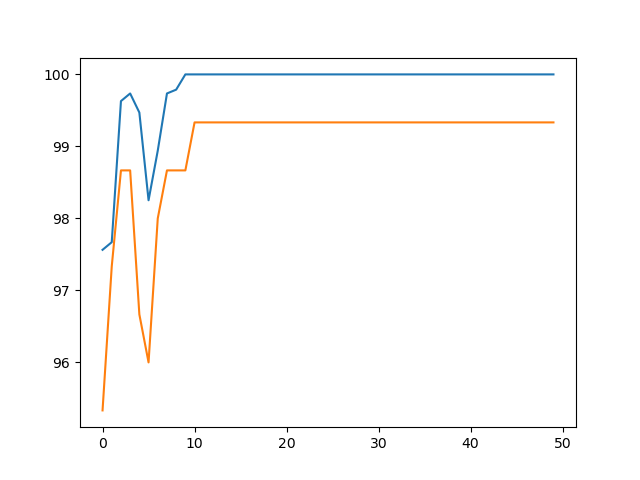
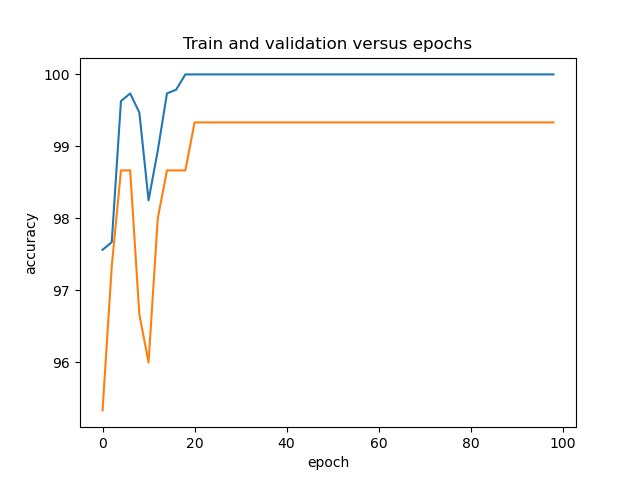
Final edi

diff --git a/best_ksvm_and_mlp_for_each_low_level_feature.py b/best_ksvm_and_mlp_for_each_low_level_feature.py
@@ -11,7 +11,7 @@ cols = details.columns.tolist() + a.columns.tolist()
 df = pd.concat([details,a], ignore_index=True, axis=1)
 df.columns = cols
 
-m = df.groupby(by="function", axis=0).max("validation")
+m = df.iloc[df.groupby(by="function", axis=0)["validation"].idxmax(),:]
 m.to_excel("results/best_ksvm_for_each_category.xlsx")
 
 ## GET BEST MODEL FOR EACH LOW LEVEL FEATURE MLP
@@ -24,5 +24,5 @@ df.columns = cols
 df = df[df["epochs"] != 10000]
 # print(df[""].unique())
 
-m = df.groupby(by="feature_func", axis=0).max()
+m = df.iloc[df.groupby(by="feature_func", axis=0)["validation"].idxmax(),:]
 m.to_excel("results/best_mlp_for_each_category.xlsx")

diff --git a/best_model_train_and_valid_curve.py b/best_model_train_and_valid_curve.py
@@ -13,8 +13,11 @@ nsample = int(json["nsample"])
 # print(valid)
 # print(nsample)
 
-plt.plot(range(nsample), train)
-plt.plot(range(nsample), valid)
+plt.plot(range(0,nsample*2, 2), train)
+plt.plot(range(0,nsample*2, 2), valid)
+plt.title("Train and validation versus epochs")
+plt.xlabel("epoch")
+plt.ylabel("accuracy")
 plt.show()
 
 # print()
